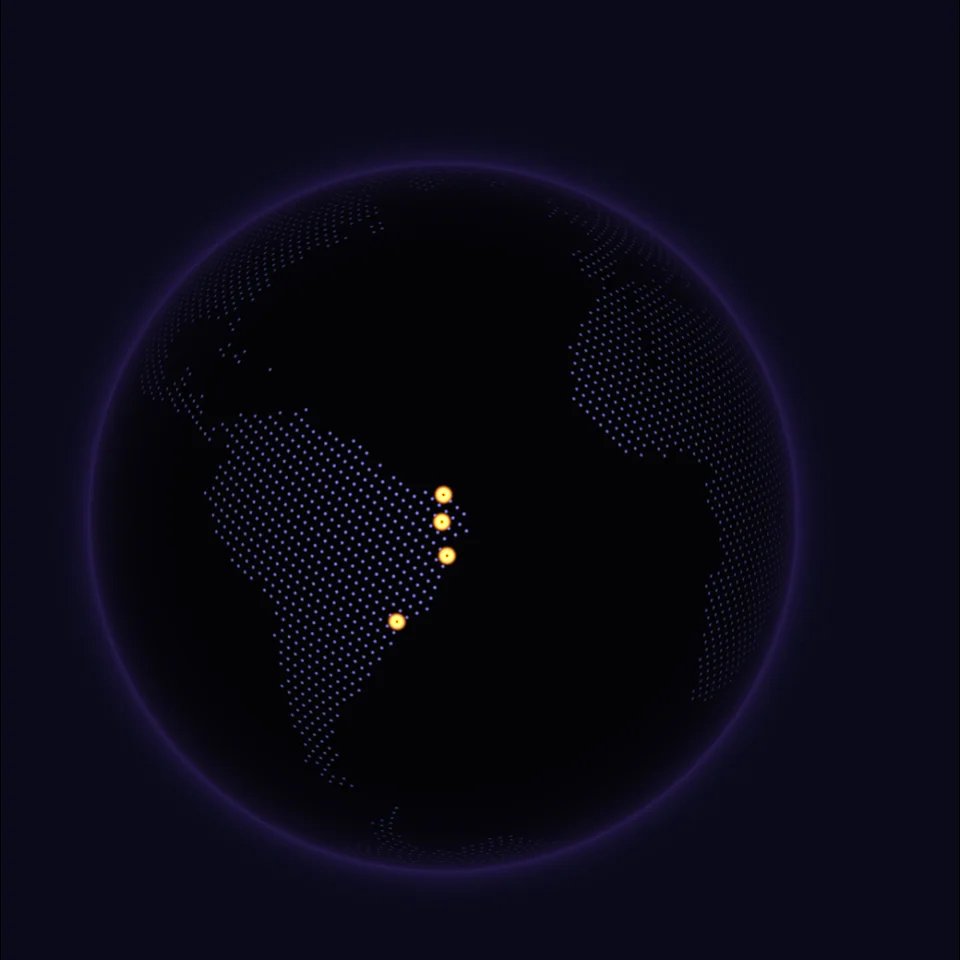
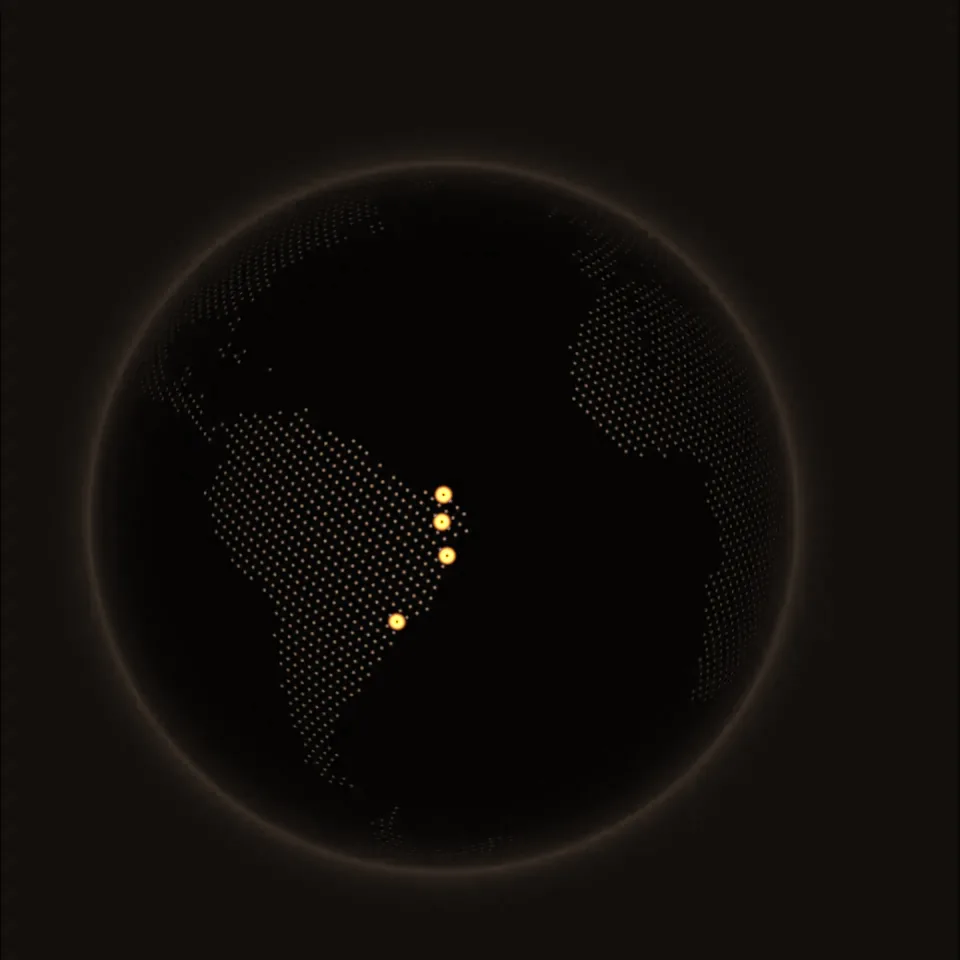
Tema escuro quente: carvão puxado para a madeira, no lugar do azul-marinho
- Fundo #14100d, superfície #211a15, texto secundário #b0a69c (7,7:1)
- Globo: base, brilho e pôster estático recoloridos em tons quentes
- Estante 3D: parede, chão e luzes sem azul; placeholder igual à cena
- Tela de carregamento, 404 estático, cor do navegador e cartões de Skills
  com a mesma cor

Claude-Session: https://claude.ai/code/session_01HKydPjNeT9ZWoKkHj3g4WT

diff --git a/src/styles/globals.scss b/src/styles/globals.scss
@@ -34,10 +34,11 @@
 // Dark
 [data-theme="dark"] {
   color-scheme:   dark;     // scrollbars, form controls, resize handles
-  --bg:           #0a0a1a;
-  --surface:      #16162e;
+  // Warm charcoal, from the shelf's wood and the D-20's cab, not a stock navy
+  --bg:           #14100d;
+  --surface:      #211a15;
   --fg:           #ffffff;
-  --fg-muted:     #a8a8b8;   // was #747474 (4.19:1 fail) → 8.36:1 on --bg
+  --fg-muted:     #b0a69c;   // 7.7:1 on --bg
   --border:       rgba(255, 255, 255, 0.14);
   --accent:       #f0732d;   // 6.72:1 on dark bg — passes
   --accent-decor: #f0732d;
@@ -46,15 +47,15 @@
   --focus-ring:   #ff9a5c;   // lighter for dark bg
 
   // Dark gradient palette
-  --gradient-start: #0a0a1a;
-  --gradient-mid:   #1a1025;
-  --gradient-end:   #2a1530;
+  --gradient-start: #14100d;
+  --gradient-mid:   #22150f;
+  --gradient-end:   #2e1a12;
 
   // Legacy aliases — updated for dark mode
   --primary-orange: #f0732d;
   --white:          #111;    // inverted (legacy; prefer --fg / --bg)
-  --grey:           #1a1a2e; // was #f2f2f2 — was NEVER overridden before
-  --text-grey:      #a8a8b8; // upgraded contrast
+  --grey:           #1d1713; // was #f2f2f2 — was NEVER overridden before
+  --text-grey:      #b0a69c; // upgraded contrast
   --black:          #fff;    // inverted (legacy; prefer --fg / --bg)
   --border-grey:    rgba(255, 255, 255, 0.14); // was #e7e7e7 — never overridden
 }

diff --git a/src/components/Library/shelf/ShelfEngine.ts b/src/components/Library/shelf/ShelfEngine.ts
@@ -1457,7 +1457,7 @@ export class ShelfEngine {
   /** Match the portfolio's light/dark tokens (background must equal the page --bg). */
   setTheme(theme: "light" | "dark") {
     const p = theme === "dark"
-      ? { bg: "#0a0a1a", wall: "#13132b", ground: "#0e0e22", shelf: "#3a2a1f", sky: "#8f93bf", skyGround: "#2b2438", hemi: 1.15, key: "#ffe6cc", keyI: 3.1, rim: "#7c86c9", rimI: 1.7 }
+      ? { bg: "#14100d", wall: "#1d1713", ground: "#17120f", shelf: "#3a2a1f", sky: "#b7a594", skyGround: "#2e2219", hemi: 1.15, key: "#ffe6cc", keyI: 3.1, rim: "#c4946c", rimI: 1.7 }
       : { bg: "#fff8f4", wall: "#f7ece3", ground: "#efe2d7", shelf: "#5a4132", sky: "#fff8ea", skyGround: "#6e5848", hemi: 2.4, key: "#fff6e7", keyI: 4.6, rim: "#c8d5e5", rimI: 2.1 };
     (this.scene.background as THREE.Color).set(p.bg);
     (this.scene.fog as THREE.Fog).color.set(p.bg);

diff --git a/src/components/Home/BackgroundGlobe.tsx b/src/components/Home/BackgroundGlobe.tsx
@@ -231,9 +231,9 @@ function GlobeCanvas({
         diffuse: 1.5,
         mapSamples: isMobileDevice ? 8000 : 16000,
         mapBrightness: darkMode ? 6 : 9,
-        baseColor: darkMode ? [0.1, 0.1, 0.2] : [1, 1, 1],
+        baseColor: darkMode ? [0.2, 0.15, 0.12] : [1, 1, 1],
         markerColor: [240 / 255, 115 / 255, 45 / 255],
-        glowColor: darkMode ? [0.15, 0.1, 0.3] : [0.98, 0.95, 0.92],
+        glowColor: darkMode ? [0.3, 0.17, 0.1] : [0.98, 0.95, 0.92],
         markers: CITIES.map((c) => ({ location: [c.lat, c.lon], size: 0.06 })),
         onRender: (state) => {
           const focus = focusRef.current;

diff --git a/src/pages/Library.tsx b/src/pages/Library.tsx
@@ -9,10 +9,10 @@ function Fallback() {
   return (
     <div style={{
       width: "100%", height: "100dvh",
-      background: darkMode ? "#0a0a1a" : "#fff8f4",
+      background: darkMode ? "#14100d" : "#fff8f4",
       display: "flex", alignItems: "center", justifyContent: "center",
     }}>
-      <p style={{ color: darkMode ? "#a8a8b8" : "#5f5f5f", fontFamily: "DM Sans, sans-serif", fontSize: 14 }}>
+      <p style={{ color: darkMode ? "#b0a69c" : "#5f5f5f", fontFamily: "DM Sans, sans-serif", fontSize: 14 }}>
         Loading library…
       </p>
     </div>

diff --git a/src/styles/components/library/library.scss b/src/styles/components/library/library.scss
@@ -73,10 +73,10 @@ body:has(.library) { padding-block: 0; }
   transition: opacity 0s linear 1.1s;
 }
 [data-theme="dark"] .library__stage {
-  --stage-wall: #010108;
-  --stage-plank: #271813;
-  --stage-front: #24120b;
-  --stage-floor: #000002;
+  --stage-wall: #050201;
+  --stage-plank: #3b2213;
+  --stage-front: #2c140a;
+  --stage-floor: #000000;
 }
 .library--ready .library__stage,
 .library--no3d .library__stage { opacity: 0; }

diff --git a/public/404.html b/public/404.html
@@ -10,7 +10,7 @@
     <style>
       :root { --bg: #fff8f4; --fg: #111; --fg-muted: #5f5f5f; --accent: #b8501a; --ball: #f0732d; }
       @media (prefers-color-scheme: dark) {
-        :root { --bg: #0a0a1a; --fg: #fff; --fg-muted: #a8a8b8; --accent: #f0732d; }
+        :root { --bg: #14100d; --fg: #fff; --fg-muted: #b0a69c; --accent: #f0732d; }
       }
       * { margin: 0; padding: 0; box-sizing: border-box; }
       body {

diff --git a/src/store/themeStore.ts b/src/store/themeStore.ts
@@ -4,7 +4,7 @@ import { create } from "zustand";
 const setThemeColor = (isDark: boolean) =>
   document
     .querySelector('meta[name="theme-color"]')
-    ?.setAttribute("content", isDark ? "#0a0a1a" : "#fff8f4");
+    ?.setAttribute("content", isDark ? "#14100d" : "#fff8f4");
 
 // Utility function to get the initial theme
 const getInitialTheme = () => {

diff --git a/src/styles/components/home/backgroundGlobe.scss b/src/styles/components/home/backgroundGlobe.scss
@@ -482,7 +482,7 @@ $stage-mono: ui-monospace, 'SF Mono', 'Fira Code', Menlo, Consolas, monospace;
     &__line { background: rgba(#fff, 0.12); }
     &__dot {
       border-color: rgba(#fff, 0.2);
-      background: #0a0a1a;
+      background: var(--bg);
     }
   }
 }

diff --git a/index.html b/index.html
@@ -25,7 +25,7 @@
         background: #fff8f4;
       }
       html[data-theme="dark"], html[data-theme="dark"] body {
-        background: #0a0a1a;
+        background: #14100d;
       }
     </style>
     <meta
